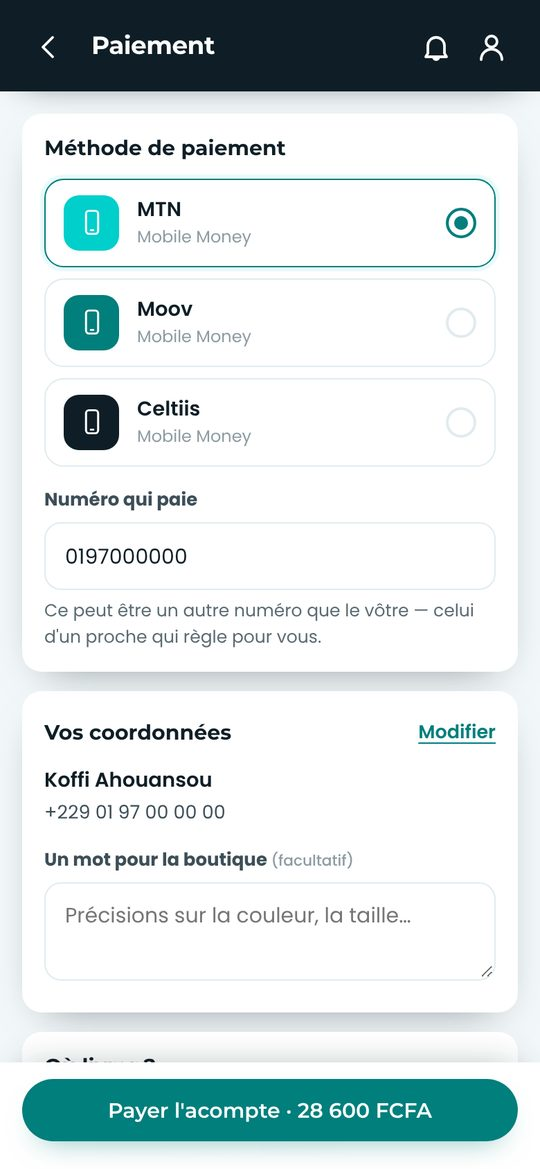
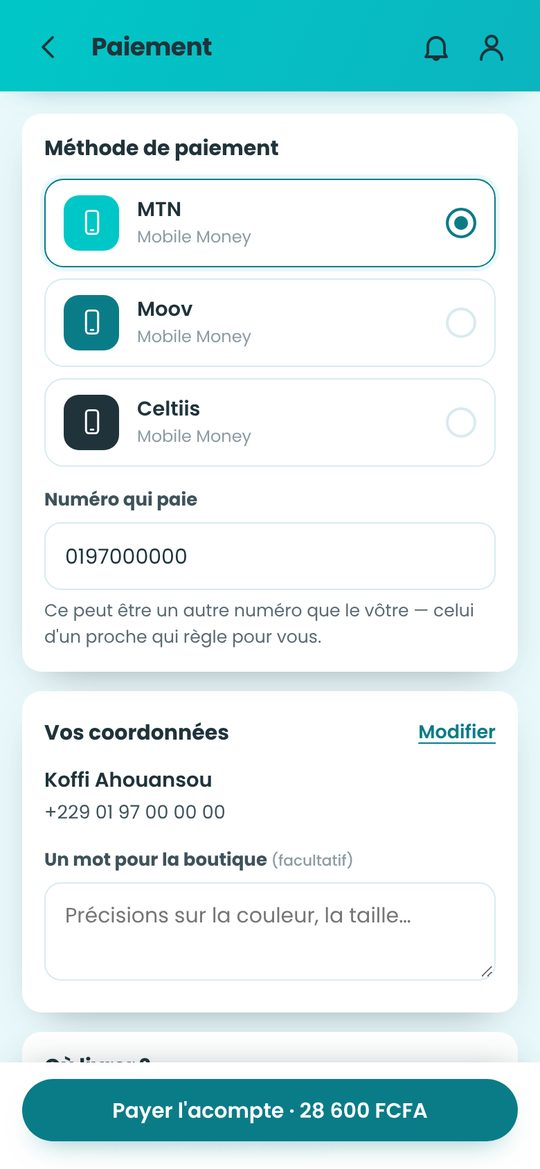
Vitrine : captures et image de partage refaites à la charte lumineuse (4.3.0) [skip ci]
Les quatre écrans de la vitrine (accueil, boutique Impact Informatique,
fiche d'un ordinateur portable, paiement aux coordonnées fictives) sont
recapturés sur la vraie boutique avec la barre turquoise et le logo B.
L'image de partage WhatsApp/Facebook passe au fond clair, avec la tuile
du B et le nouvel accueil dans le téléphone. Adresses en ?v=4.3.0.

Claude-Session: https://claude.ai/code/session_015uaxPKk3hH4GxquYQguVod

diff --git a/index.html b/index.html
@@ -26,7 +26,7 @@
 <meta property="og:url" content="https://www.bizzoomarket.com/">
 <meta property="og:title" content="BIZZOO — Vos boutiques préférées dans une seule app !">
 <meta property="og:description" content="Les boutiques de votre ville réunies : parcourez leurs catalogues, comparez les prix, commandez et payez par Mobile Money.">
-<meta property="og:image" content="https://www.bizzoomarket.com/vitrine/partage.jpg?v=4.0.0">
+<meta property="og:image" content="https://www.bizzoomarket.com/vitrine/partage.jpg?v=4.3.0">
 <meta property="og:image:width" content="1200">
 <meta property="og:image:height" content="630">
 <meta property="og:image:alt" content="BIZZOO, vos boutiques préférées dans une seule app — l'accueil de l'application">
@@ -385,7 +385,7 @@
          note ni aucun avis n'y figure, faute de pouvoir les montrer vrais. -->
     <div class="mock">
       <div class="mock-cadre">
-        <img src="vitrine/ecran-accueil.jpg?v=4.0.0" width="540" height="1169"
+        <img src="vitrine/ecran-accueil.jpg?v=4.3.0" width="540" height="1169"
              alt="L'accueil de BIZZOO : la recherche, les catégories, les boutiques partenaires">
       </div>
     </div>
@@ -400,22 +400,22 @@
     </div>
     <div class="ecrans-rangee">
       <figure class="ecran">
-        <div class="ecran-cadre"><img src="vitrine/ecran-accueil.jpg?v=4.0.0" width="540" height="1169" loading="lazy"
+        <div class="ecran-cadre"><img src="vitrine/ecran-accueil.jpg?v=4.3.0" width="540" height="1169" loading="lazy"
           alt="L'accueil : la recherche, les catégories, les boutiques partenaires"></div>
         <figcaption>1. Accueil</figcaption>
       </figure>
       <figure class="ecran">
-        <div class="ecran-cadre"><img src="vitrine/ecran-boutique.jpg?v=4.0.0" width="540" height="1169" loading="lazy"
+        <div class="ecran-cadre"><img src="vitrine/ecran-boutique.jpg?v=4.3.0" width="540" height="1169" loading="lazy"
           alt="La fiche d'une boutique : son logo, ses atouts, ses produits"></div>
         <figcaption>2. Une boutique</figcaption>
       </figure>
       <figure class="ecran">
-        <div class="ecran-cadre"><img src="vitrine/ecran-produit.jpg?v=4.0.0" width="540" height="1169" loading="lazy"
+        <div class="ecran-cadre"><img src="vitrine/ecran-produit.jpg?v=4.3.0" width="540" height="1169" loading="lazy"
           alt="La fiche d'un produit : le prix, les spécifications, le bouton Ajouter au panier"></div>
         <figcaption>3. Un produit</figcaption>
       </figure>
       <figure class="ecran">
-        <div class="ecran-cadre"><img src="vitrine/ecran-paiement.jpg?v=4.0.0" width="540" height="1169" loading="lazy"
+        <div class="ecran-cadre"><img src="vitrine/ecran-paiement.jpg?v=4.3.0" width="540" height="1169" loading="lazy"
           alt="Le paiement de l'acompte : MTN, Moov ou Celtiis, et l'adresse de livraison"></div>
         <figcaption>4. Le paiement</figcaption>
       </figure>

diff --git a/README.md b/README.md
@@ -8127,6 +8127,13 @@ pétrole, sections qui alternent blanc et fond clair, pied bleu pétrole
 à texte blanc. La page 404 et les pages légales prennent les mêmes
 couleurs. Plus de grands aplats noirs nulle part.
 
+**Les captures sont refaites** à la charte lumineuse, sur la vraie
+boutique et ses vraies photos : les quatre écrans de la vitrine
+(`vitrine/ecran-*.jpg`, le paiement toujours aux coordonnées fictives de
+`tools/galerie-ecrans.mjs`) et l'image de partage (`vitrine/partage.jpg`,
+92 Ko : fond clair, tuile du B, téléphone qui montre le nouvel accueil),
+aux adresses en `?v=4.3.0`.
+
 ### Les bancs
 
 `banc-da` vérifie la nouvelle charte : la barre turquoise et ses boutons
